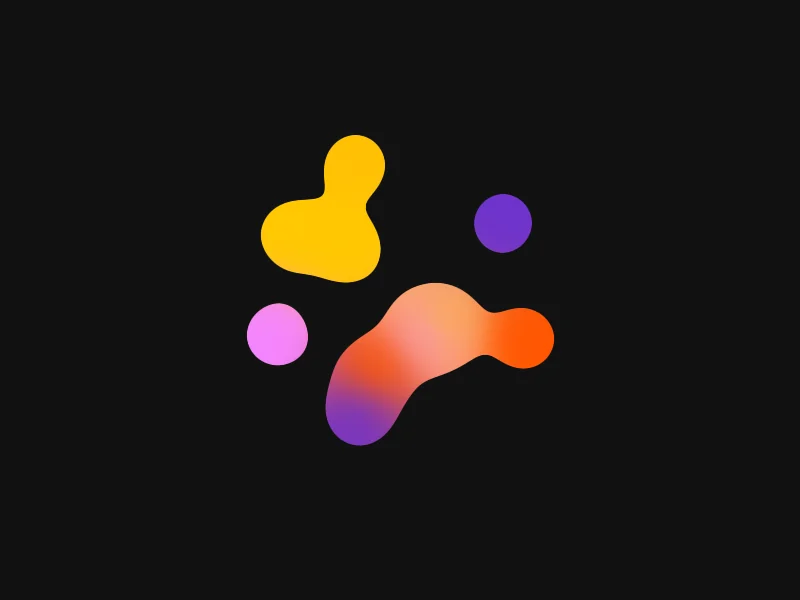
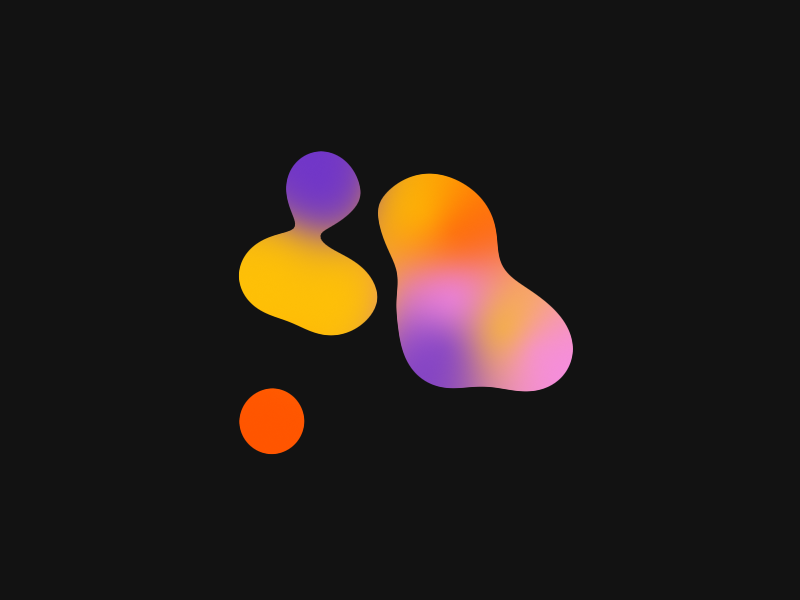
modified shaders and new previews

Changed region(s): [[0.2812, 0.21, 0.7188, 0.78]]

diff --git a/docs/src/home-shaders.ts b/docs/src/home-shaders.ts
@@ -137,7 +137,7 @@ export const homeShaders = [
     url: '/warp',
     ShaderComponent: Warp,
     image: warpImg,
-    shaderConfig: { ...warpPresets[0].params, speed: 2, offsetX: -0.2, scale: 0.8, frame: 4000 },
+    shaderConfig: { ...warpPresets[0].params, speed: 2, offsetX: -0.2, scale: 0.6, frame: 20000 },
   },
   {
     name: 'spiral',
@@ -200,7 +200,7 @@ export const homeShaders = [
     image: metaballsImg,
     url: '/metaballs',
     ShaderComponent: Metaballs,
-    shaderConfig: { ...metaballsPresets[0].params, scale: 0.65, frame: 13000, offsetY: 0 },
+    shaderConfig: { ...metaballsPresets[0].params, scale: 0.7, frame: 21300, offsetY: -0.01 },
   },
   {
     name: 'color panels',

diff --git a/packages/shaders-react/src/shaders/metaballs.tsx b/packages/shaders-react/src/shaders/metaballs.tsx
@@ -24,9 +24,9 @@ export const defaultPreset: MetaballsPreset = {
     speed: 1,
     frame: 0,
     colorBack: '#121212',
-    colors: ['#ffc800', '#ff5500', '#ffc105', '#6e33cc', '#f585ff'],
+    colors: ['#6e33cc', '#ff5500', '#ffc105', '#ffc800', '#f585ff'],
     count: 10,
-    size: 0.8,
+    size: 0.83,
   },
 };
 
